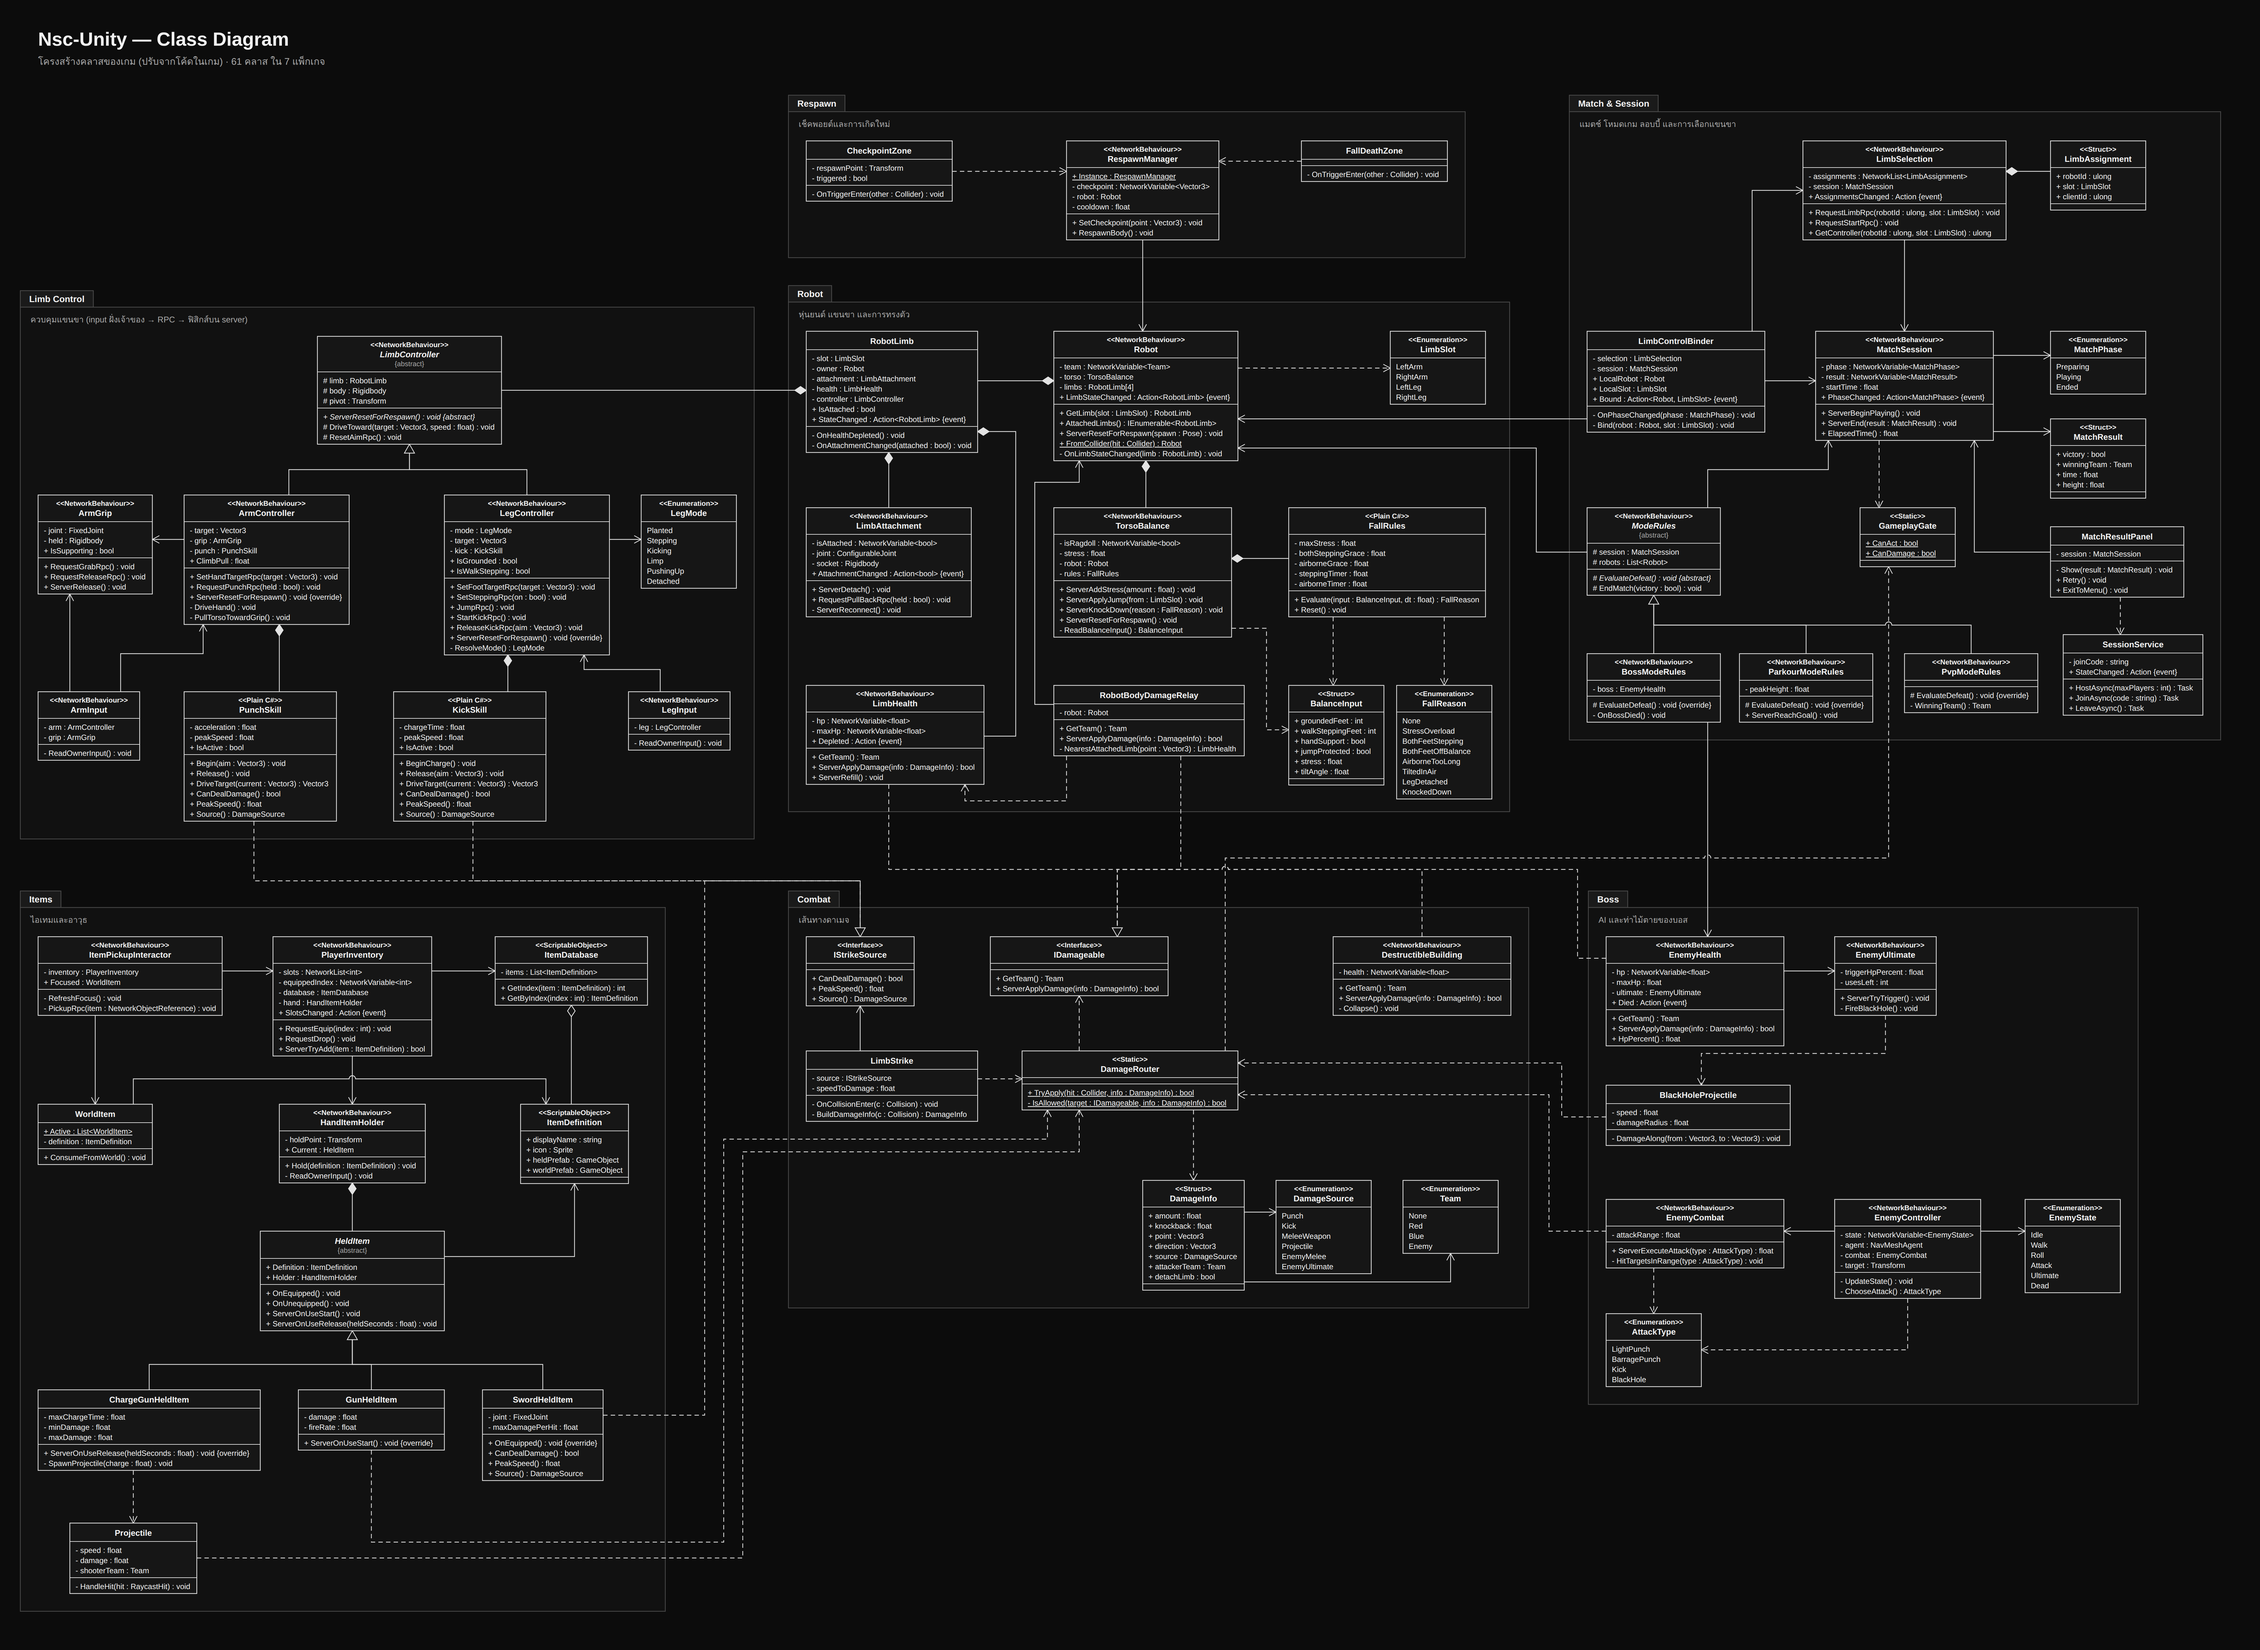
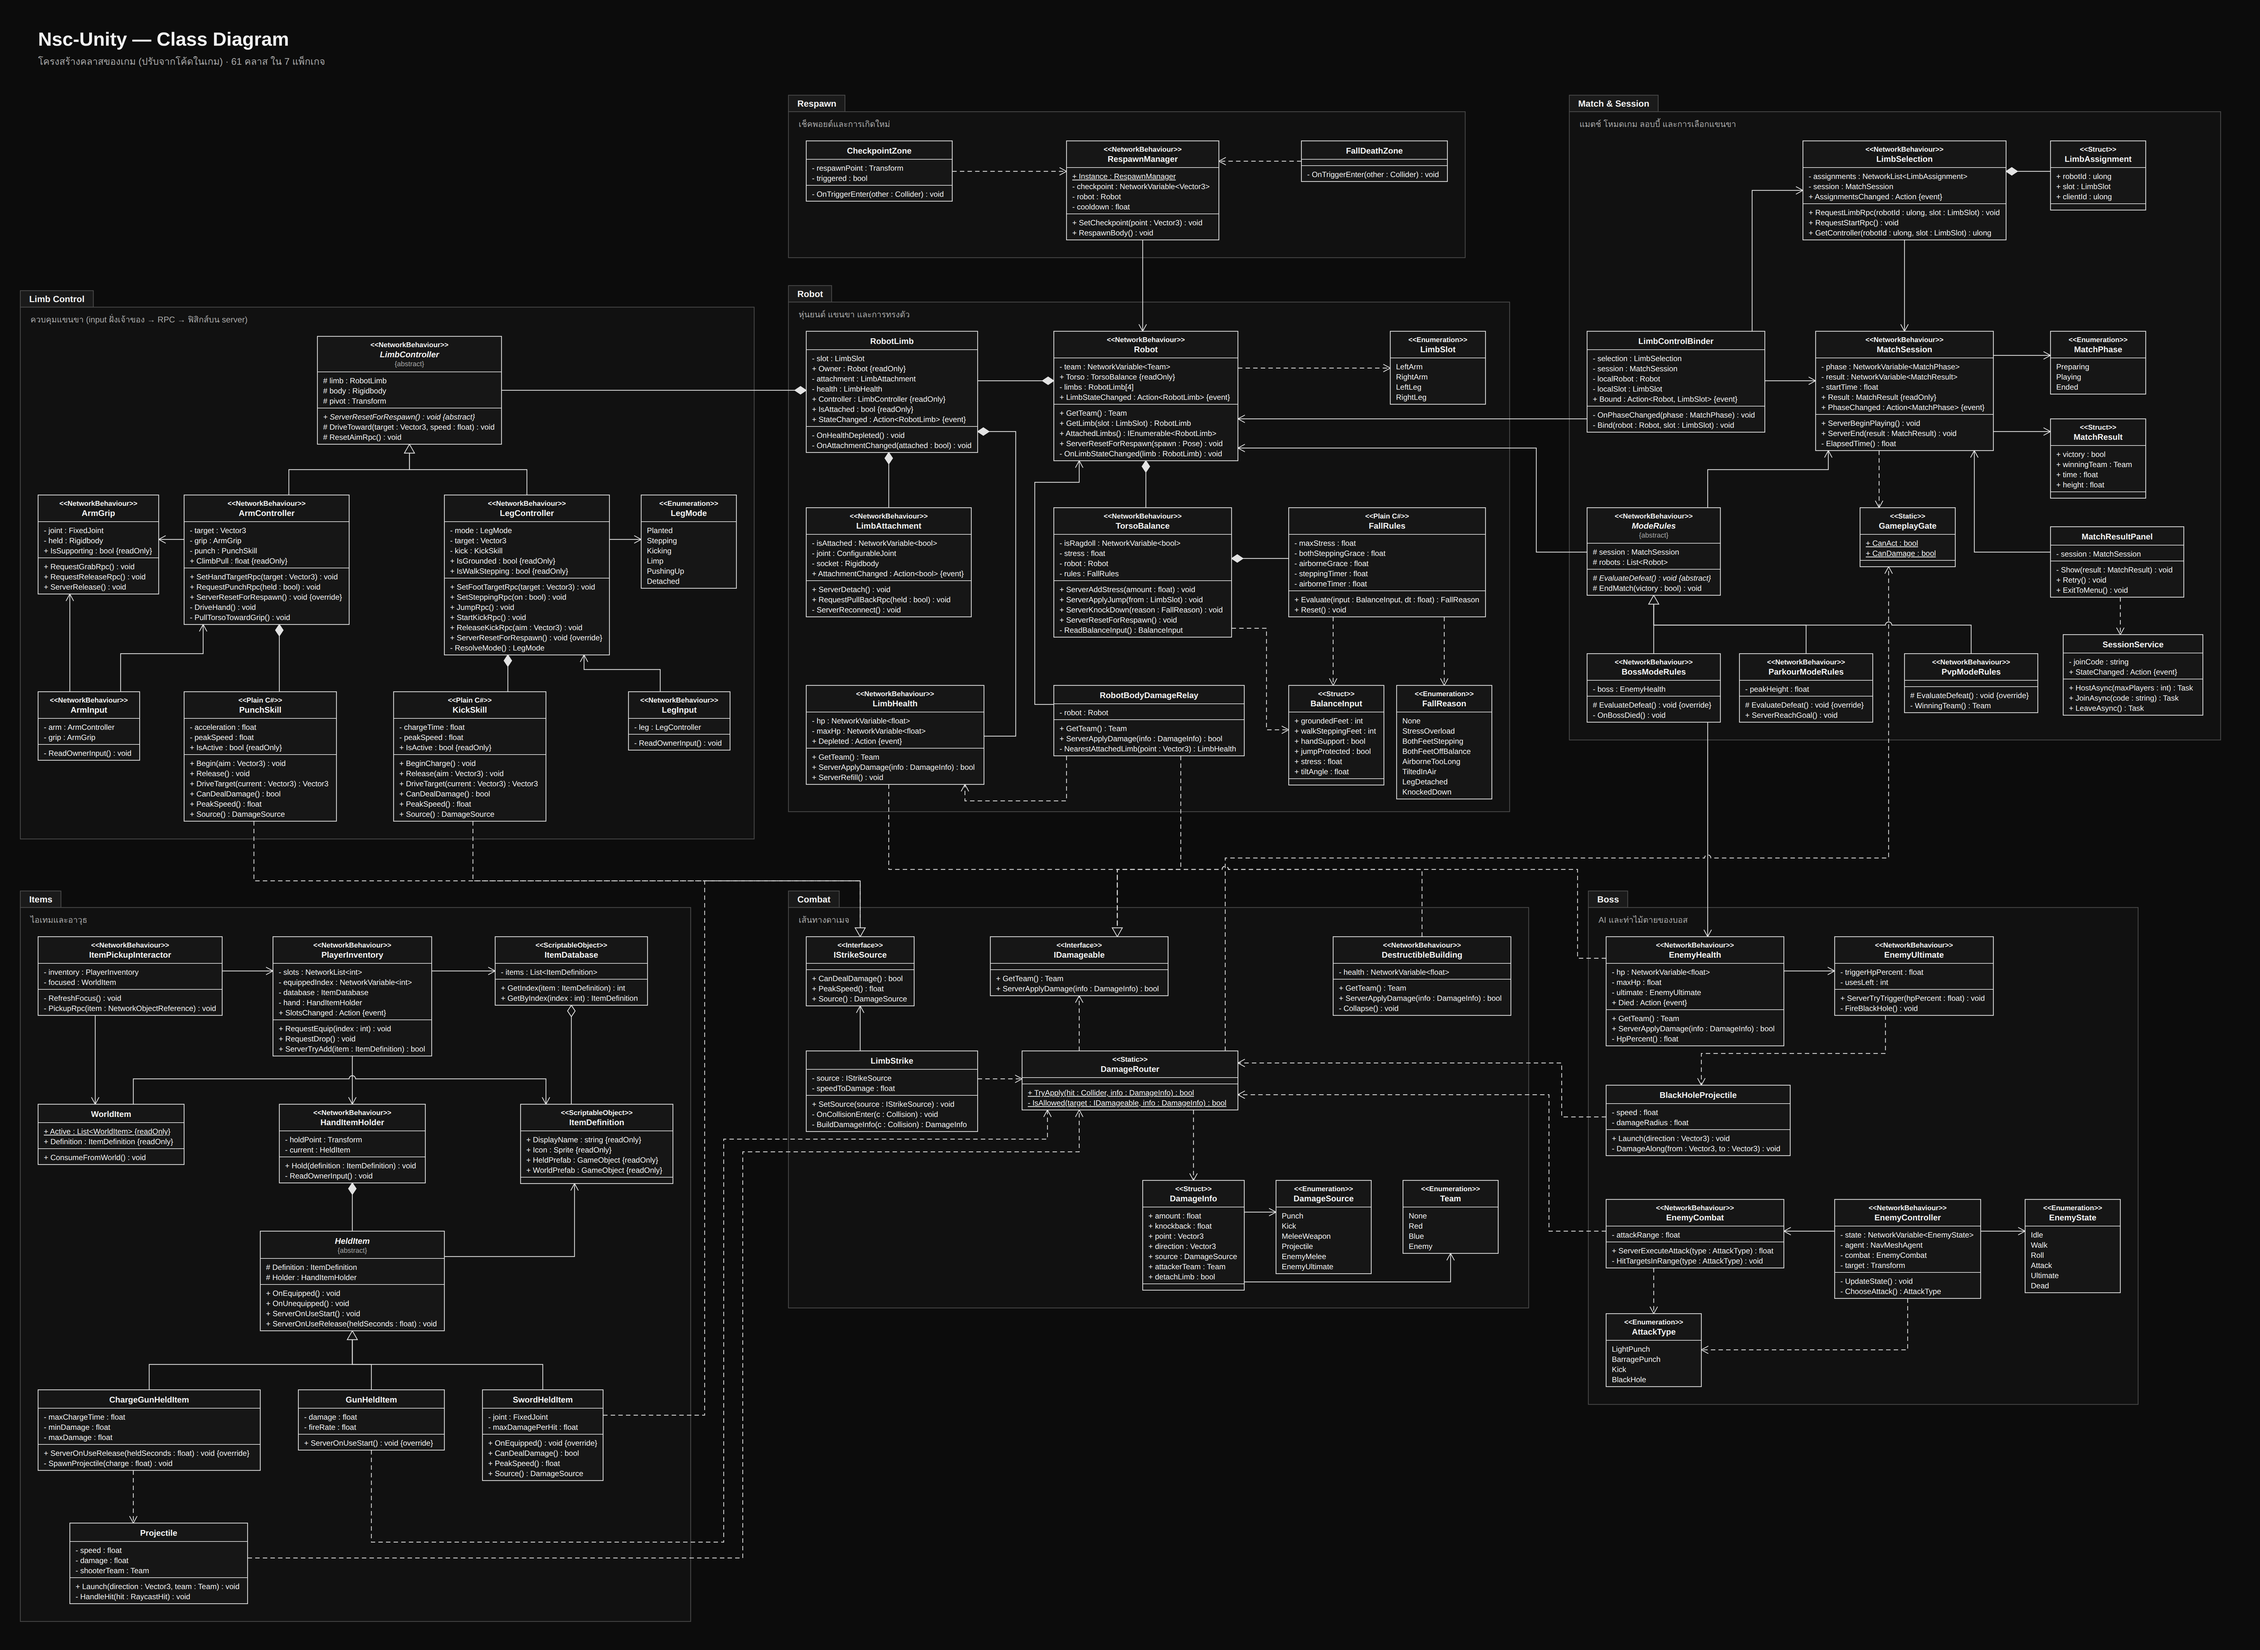
Class diagram: tighten access modifiers
Members only a class uses itself are private; public is kept for what
other classes call, subscribe to, or read. Read-only properties are
marked {readOnly}, HeldItem's Definition/Holder are protected, and a
few accessors other classes need (Robot.GetTeam, LimbStrike.SetSource,
Projectile/BlackHoleProjectile.Launch) are added.

Claude-Session: https://claude.ai/code/session_01CAKCi5hpscL7vAswbb6Biq

diff --git a/Docs/UML/src/model.py b/Docs/UML/src/model.py
@@ -17,23 +17,23 @@ def C(cid, stereo=None, attrs=(), ops=(), abstract=False, enum=None, pkg=None):
 P = "robot"
 C("Robot", NB, [
     "- team : NetworkVariable<Team>",
-    "- torso : TorsoBalance",
+    "+ Torso : TorsoBalance {readOnly}",
     "- limbs : RobotLimb[4]",
     "+ LimbStateChanged : Action<RobotLimb> {event}",
 ], [
+    "+ GetTeam() : Team",
     "+ GetLimb(slot : LimbSlot) : RobotLimb",
     "+ AttachedLimbs() : IEnumerable<RobotLimb>",
     "+ ServerResetForRespawn(spawn : Pose) : void",
-    "_+ FromCollider(hit : Collider) : Robot",
     "- OnLimbStateChanged(limb : RobotLimb) : void",
 ], pkg=P)
 C("RobotLimb", None, [
     "- slot : LimbSlot",
-    "- owner : Robot",
+    "+ Owner : Robot {readOnly}",
     "- attachment : LimbAttachment",
     "- health : LimbHealth",
-    "- controller : LimbController",
-    "+ IsAttached : bool",
+    "+ Controller : LimbController {readOnly}",
+    "+ IsAttached : bool {readOnly}",
     "+ StateChanged : Action<RobotLimb> {event}",
 ], [
     "- OnHealthDepleted() : void",
@@ -108,7 +108,7 @@ C("ArmController", NB, [
     "- target : Vector3",
     "- grip : ArmGrip",
     "- punch : PunchSkill",
-    "+ ClimbPull : float",
+    "+ ClimbPull : float {readOnly}",
 ], [
     "+ SetHandTargetRpc(target : Vector3) : void",
     "+ RequestPunchRpc(held : bool) : void",
@@ -120,8 +120,8 @@ C("LegController", NB, [
     "- mode : LegMode",
     "- target : Vector3",
     "- kick : KickSkill",
-    "+ IsGrounded : bool",
-    "+ IsWalkStepping : bool",
+    "+ IsGrounded : bool {readOnly}",
+    "+ IsWalkStepping : bool {readOnly}",
 ], [
     "+ SetFootTargetRpc(target : Vector3) : void",
     "+ SetSteppingRpc(on : bool) : void",
@@ -135,7 +135,7 @@ C("LegMode", "Enumeration", enum=["Planted", "Stepping", "Kicking", "Limp", "Pus
 C("ArmGrip", NB, [
     "- joint : FixedJoint",
     "- held : Rigidbody",
-    "+ IsSupporting : bool",
+    "+ IsSupporting : bool {readOnly}",
 ], [
     "+ RequestGrabRpc() : void",
     "+ RequestReleaseRpc() : void",
@@ -156,7 +156,7 @@ C("LegInput", NB, [
 C("PunchSkill", "Plain C#", [
     "- acceleration : float",
     "- peakSpeed : float",
-    "+ IsActive : bool",
+    "+ IsActive : bool {readOnly}",
 ], [
     "+ Begin(aim : Vector3) : void",
     "+ Release() : void",
@@ -168,7 +168,7 @@ C("PunchSkill", "Plain C#", [
 C("KickSkill", "Plain C#", [
     "- chargeTime : float",
     "- peakSpeed : float",
-    "+ IsActive : bool",
+    "+ IsActive : bool {readOnly}",
 ], [
     "+ BeginCharge() : void",
     "+ Release(aim : Vector3) : void",
@@ -189,6 +189,7 @@ C("LimbStrike", None, [
     "- source : IStrikeSource",
     "- speedToDamage : float",
 ], [
+    "+ SetSource(source : IStrikeSource) : void",
     "- OnCollisionEnter(c : Collision) : void",
     "- BuildDamageInfo(c : Collision) : DamageInfo",
 ], pkg=P)
@@ -253,19 +254,20 @@ C("EnemyHealth", NB, [
 ], [
     "+ GetTeam() : Team",
     "+ ServerApplyDamage(info : DamageInfo) : bool",
-    "+ HpPercent() : float",
+    "- HpPercent() : float",
 ], pkg=P)
 C("EnemyUltimate", NB, [
     "- triggerHpPercent : float",
     "- usesLeft : int",
 ], [
-    "+ ServerTryTrigger() : void",
+    "+ ServerTryTrigger(hpPercent : float) : void",
     "- FireBlackHole() : void",
 ], pkg=P)
 C("BlackHoleProjectile", None, [
     "- speed : float",
     "- damageRadius : float",
 ], [
+    "+ Launch(direction : Vector3) : void",
     "- DamageAlong(from : Vector3, to : Vector3) : void",
 ], pkg=P)
 
@@ -275,11 +277,12 @@ C("MatchSession", NB, [
     "- phase : NetworkVariable<MatchPhase>",
     "- result : NetworkVariable<MatchResult>",
     "- startTime : float",
+    "+ Result : MatchResult {readOnly}",
     "+ PhaseChanged : Action<MatchPhase> {event}",
 ], [
     "+ ServerBeginPlaying() : void",
     "+ ServerEnd(result : MatchResult) : void",
-    "+ ElapsedTime() : float",
+    "- ElapsedTime() : float",
 ], pkg=P)
 C("MatchPhase", "Enumeration", enum=["Preparing", "Playing", "Ended"], pkg=P)
 C("MatchResult", "Struct", [
@@ -332,8 +335,8 @@ C("LimbAssignment", "Struct", [
 C("LimbControlBinder", None, [
     "- selection : LimbSelection",
     "- session : MatchSession",
-    "+ LocalRobot : Robot",
-    "+ LocalSlot : LimbSlot",
+    "- localRobot : Robot",
+    "- localSlot : LimbSlot",
     "+ Bound : Action<Robot, LimbSlot> {event}",
 ], [
     "- OnPhaseChanged(phase : MatchPhase) : void",
@@ -380,7 +383,7 @@ C("FallDeathZone", None, [], [
 P = "items"
 C("ItemPickupInteractor", NB, [
     "- inventory : PlayerInventory",
-    "+ Focused : WorldItem",
+    "- focused : WorldItem",
 ], [
     "- RefreshFocus() : void",
     "- PickupRpc(item : NetworkObjectReference) : void",
@@ -403,27 +406,27 @@ C("ItemDatabase", "ScriptableObject", [
     "+ GetByIndex(index : int) : ItemDefinition",
 ], pkg=P)
 C("ItemDefinition", "ScriptableObject", [
-    "+ displayName : string",
-    "+ icon : Sprite",
-    "+ heldPrefab : GameObject",
-    "+ worldPrefab : GameObject",
+    "+ DisplayName : string {readOnly}",
+    "+ Icon : Sprite {readOnly}",
+    "+ HeldPrefab : GameObject {readOnly}",
+    "+ WorldPrefab : GameObject {readOnly}",
 ], pkg=P)
 C("WorldItem", None, [
-    "_+ Active : List<WorldItem>",
-    "- definition : ItemDefinition",
+    "_+ Active : List<WorldItem> {readOnly}",
+    "+ Definition : ItemDefinition {readOnly}",
 ], [
     "+ ConsumeFromWorld() : void",
 ], pkg=P)
 C("HandItemHolder", NB, [
     "- holdPoint : Transform",
-    "+ Current : HeldItem",
+    "- current : HeldItem",
 ], [
     "+ Hold(definition : ItemDefinition) : void",
     "- ReadOwnerInput() : void",
 ], pkg=P)
 C("HeldItem", None, [
-    "+ Definition : ItemDefinition",
-    "+ Holder : HandItemHolder",
+    "# Definition : ItemDefinition",
+    "# Holder : HandItemHolder",
 ], [
     "+ OnEquipped() : void",
     "+ OnUnequipped() : void",
@@ -458,6 +461,7 @@ C("Projectile", None, [
     "- damage : float",
     "- shooterTeam : Team",
 ], [
+    "+ Launch(direction : Vector3, team : Team) : void",
     "- HandleHit(hit : RaycastHit) : void",
 ], pkg=P)
 
